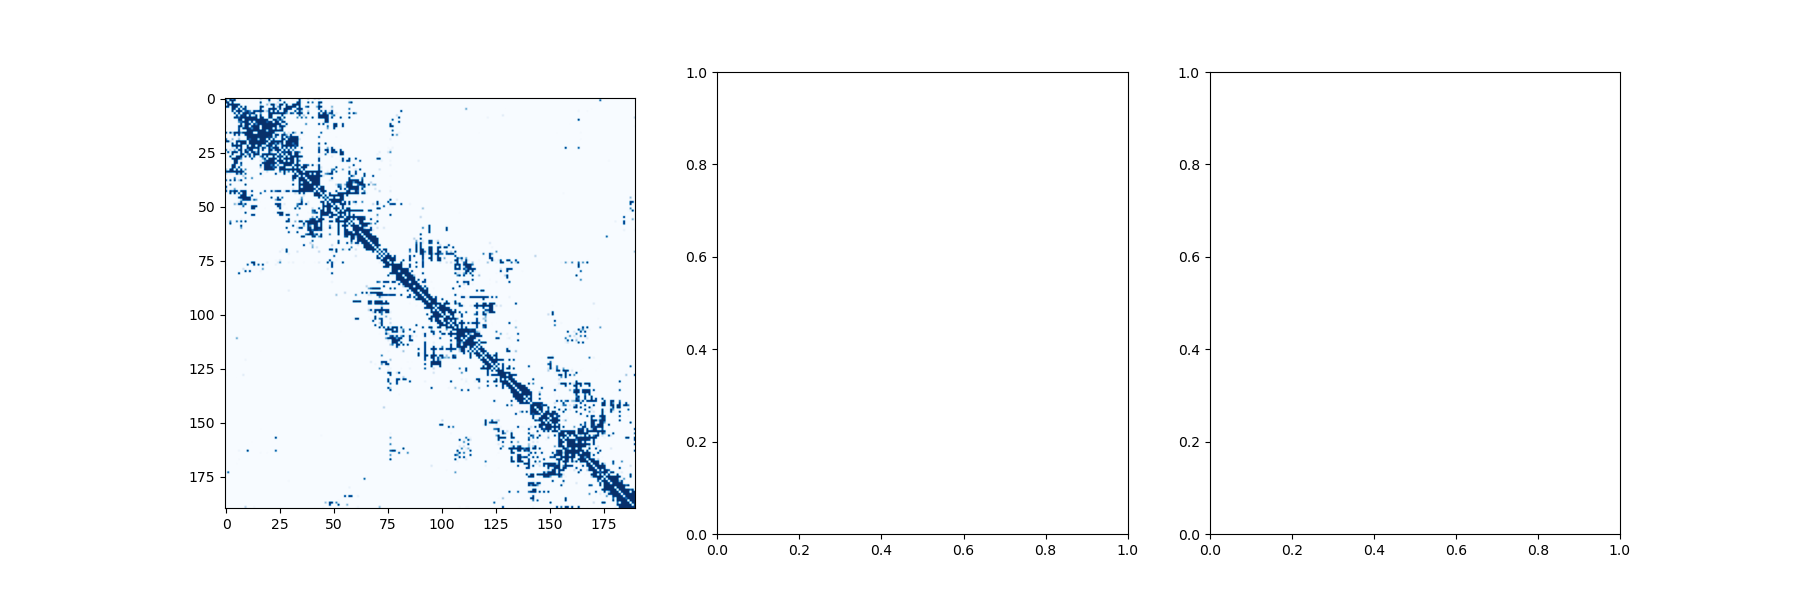
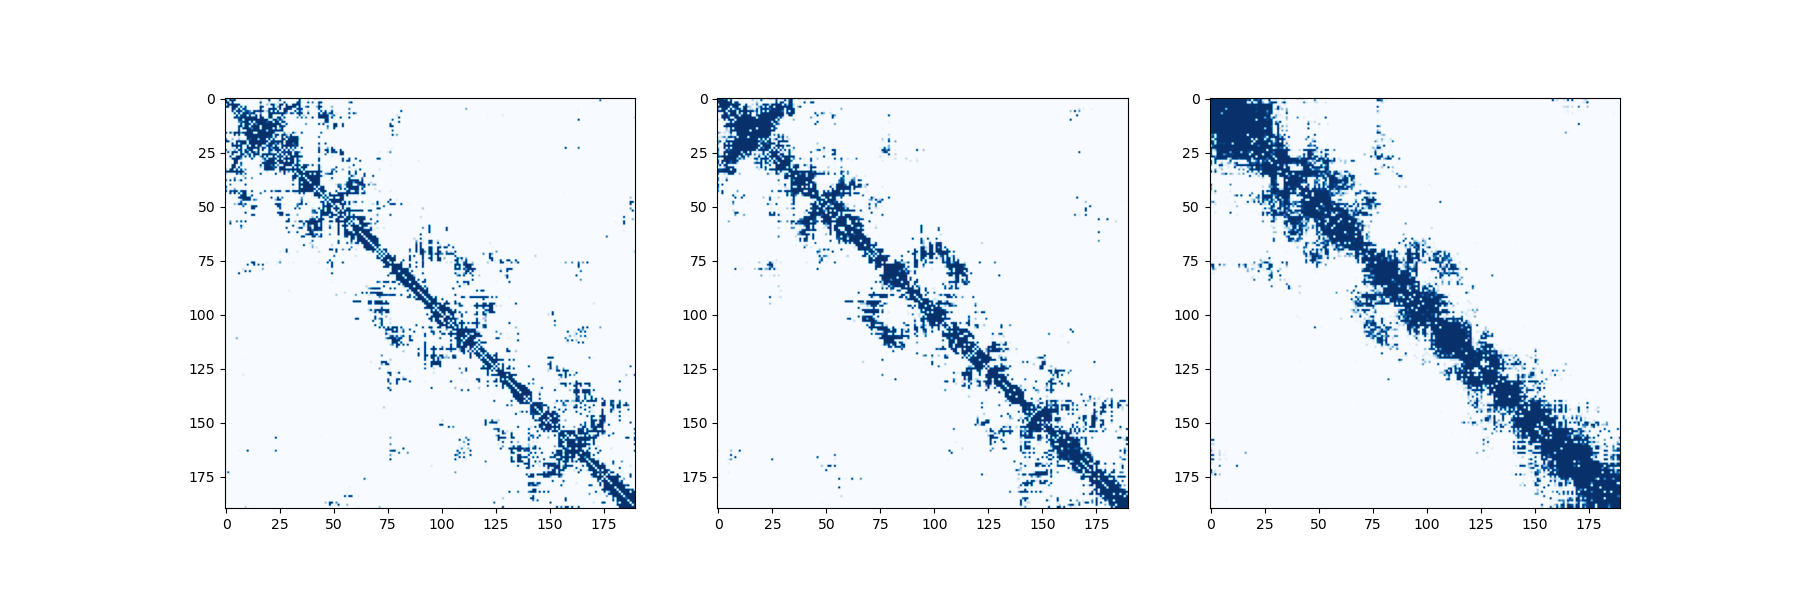
update

diff --git a/contact.py b/contact.py
@@ -62,6 +62,8 @@ msa_batch_converter = msa_alphabet.get_batch_converter()
 
 msa_data = [
     read_msa("./data/sample.a2m", 96),
+    read_msa("./data/sample.a2m", 64),
+    read_msa("./data/sample.a2m", 32),
 ]
 msa_batch_labels, msa_batch_strs, msa_batch_tokens = msa_batch_converter(msa_data)
 msa_batch_tokens = msa_batch_tokens.cuda()

diff --git a/README.md b/README.md
@@ -1,2 +1,7 @@
 # ProteinFold
 Protein Folding with Protein MSA
+
+
+Protein inference.
+
+![](./sample.png)
